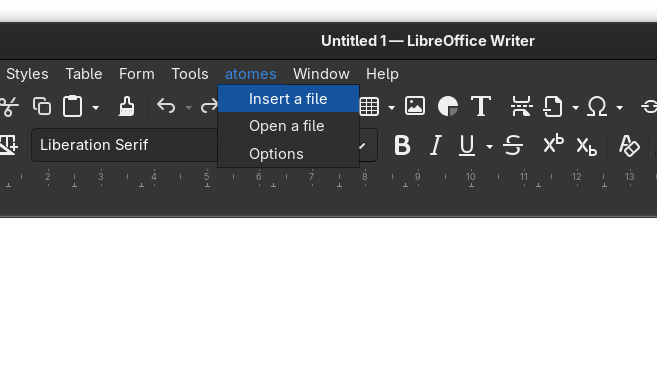
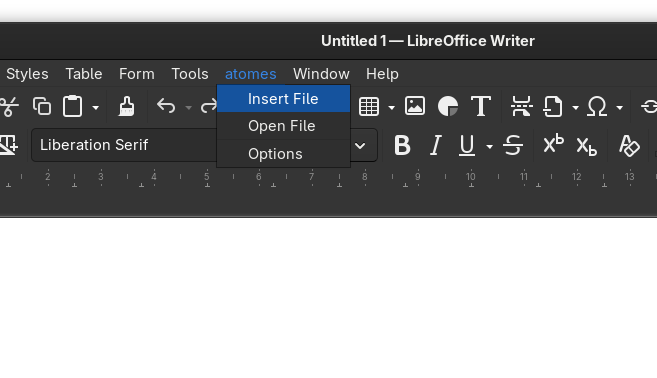
atomes LibreOffice: jeu. 28 mai 2026 15:14:33 CEST

Changed region(s): [[0.3653, 0.2037, 0.5479, 0.3201], [0.3653, 0.3783, 0.4566, 0.4365], [0.3653, 0.3201, 0.4871, 0.3492]]

diff --git a/README.md b/README.md
@@ -67,6 +67,9 @@ The extension allows:
 
 ### Inserting an **atomes** project in a LibreOffice document
 
+To insert an **atomes** project in your LibreOffice document select the *Insert File* option in the extension menu. 
+A dialog box will open to help your browse your hard drive to select the **atomes** project to insert: 
+
 <p align="center">
 <img width="400" src="img/img-2-opening.png" alt="Inserting atomes project file in LibreOffice Writer" align="center">
 </p>
@@ -83,7 +86,7 @@ or via a symbolic link to the orginal **atomes** project file. Note that is poss
 
 ### Editing an **atomes** project embedded in a LibreOffice document
 
-Use the extension menu and select *Open a file*, if only one **atomes** project file happens to be embedded in the document this file 
+Use the extension menu and select *Open File*, if only a single **atomes** project file happens to be embedded in the document this file 
 will be opened immediately otherwise you will be ask to select the projet to open. Alternatively simply double click on the image corresponding to the project
 you want to open, that does the trick:
 
@@ -104,7 +107,7 @@ you can work with this interface as with the standard one, perform calculation, 
 
 ### Accessing the extension options
 
-In the extension menu select the *options* item, the options dialog offers to swith between internal and external storage for the **atomes** project files. 
+In the extension menu select the *Options* item, the options dialog offers to swith between internal and external storage for the **atomes** project files. 
 It it also possible to configure the mode of internal storage. 
 Please note that on pressing apply the storage mode of the **atomes** project(s) that could be inserted in your LibreOffice document will be changed, 
 and if required internal document(s) extraced on the hard drive or vice versa. 
